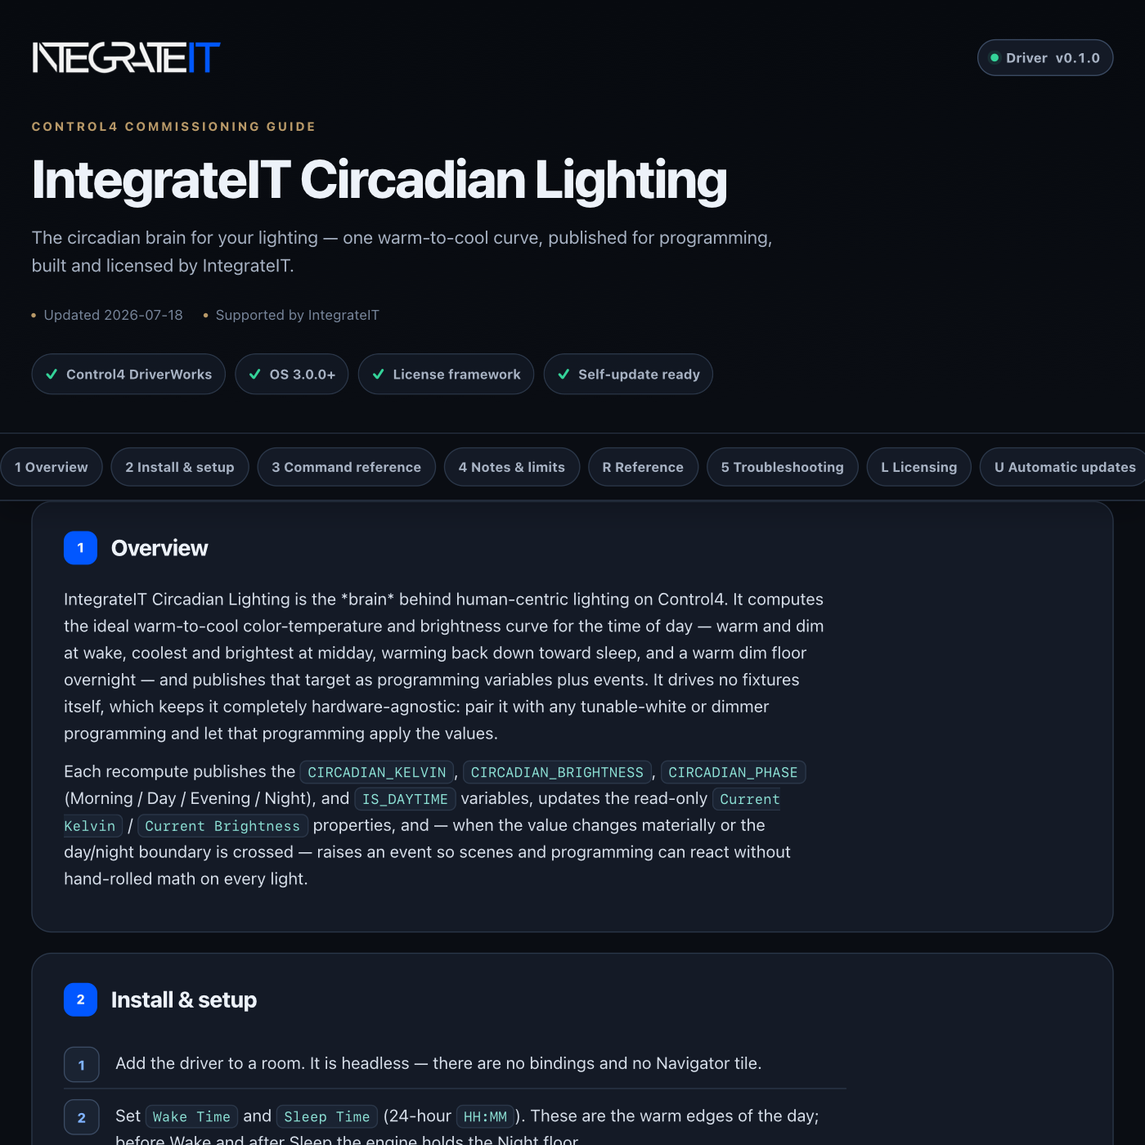
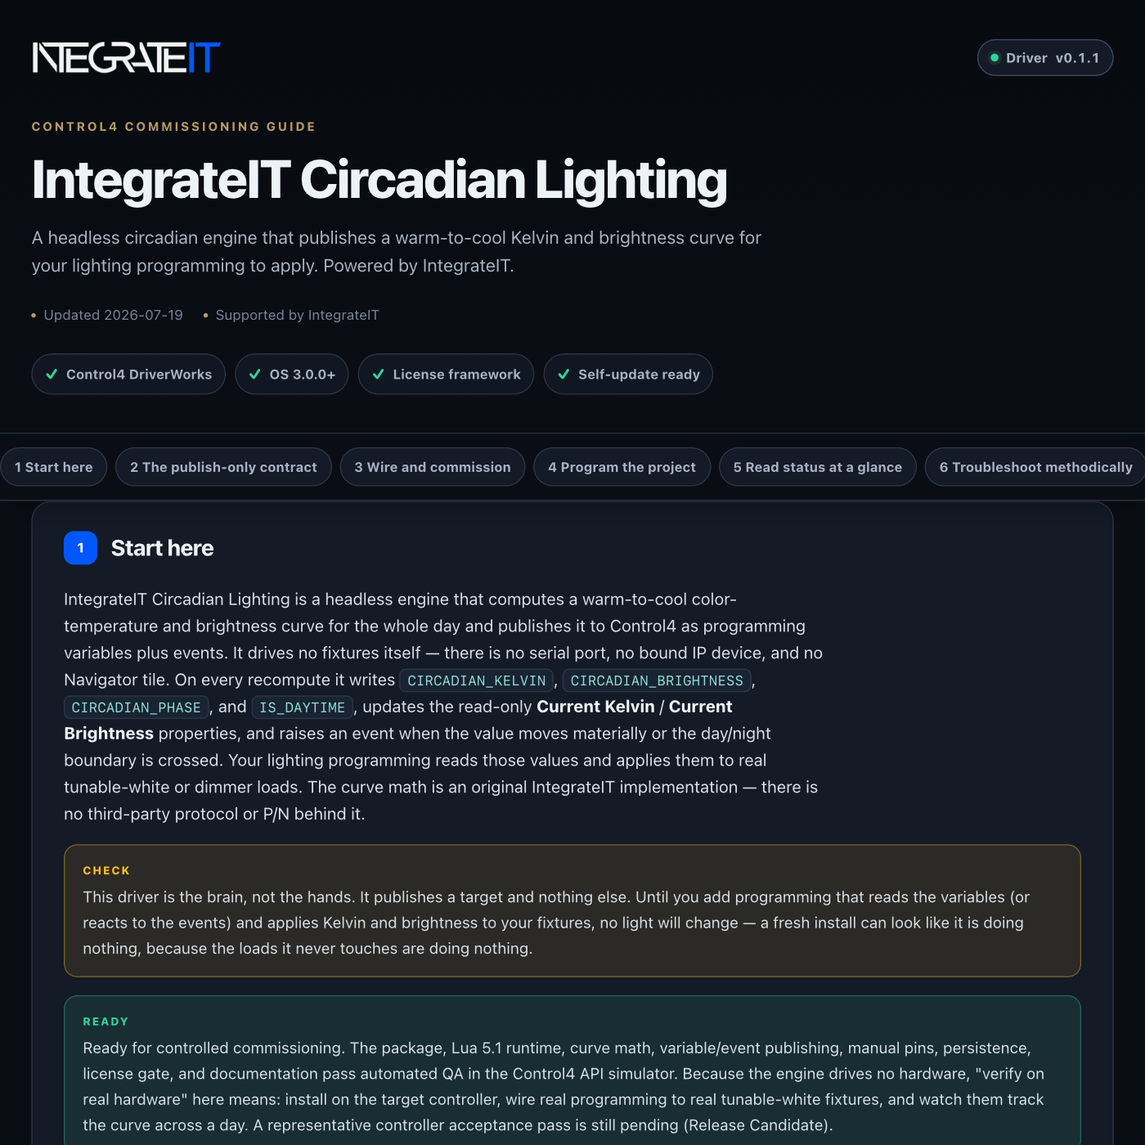
control4: publish driver channel (integrateit_circadian_lighting 0.1.2)

diff --git a/control4/integrateit_circadian_lighting/documentation.html b/control4/integrateit_circadian_lighting/documentation.html
@@ -179,13 +179,13 @@ td code{white-space:normal}
     <div class="wrap">
       <div class="brandbar">
[1 lines of base64/hex data omitted]
-        <span class="version"><span class="word">Driver</span> v0.1.1</span>
+        <span class="version"><span class="word">Driver</span> v0.1.2</span>
       </div>
       <p class="eyebrow">Control4 commissioning guide</p>
       <h1>IntegrateIT Circadian Lighting</h1>
-      <p class="sub">The circadian brain for your lighting — one warm-to-cool curve, published for programming, built and licensed by IntegrateIT.</p>
+      <p class="sub">A headless circadian engine that publishes a warm-to-cool Kelvin and brightness curve for your lighting programming to apply. Powered by IntegrateIT.</p>
       <div class="meta">
-        <span>Updated 2026-07-19</span>
+        <span>Updated 2026-07-26</span>
         <span>Supported by IntegrateIT</span>
       </div>
       <div class="readiness" aria-label="Driver capabilities">
@@ -198,52 +198,120 @@ td code{white-space:normal}
   </header>
 
   <div class="toc-wrap">
-    <nav class="toc wrap" aria-label="Documentation sections"><a href="#overview">1 Overview</a><a href="#install">2 Install &amp; setup</a><a href="#commands">3 Command reference</a><a href="#notes">4 Notes &amp; limits</a><a href="#reference">R Reference</a><a href="#troubleshooting">5 Troubleshooting</a><a href="#licensing">L Licensing</a><a href="#updates">U Automatic updates</a><a href="#changelog">V Version history</a></nav>
+    <nav class="toc wrap" aria-label="Documentation sections"><a href="#overview">1 Start here</a><a href="#contract">2 The publish-only contract</a><a href="#setup">3 Wire and commission</a><a href="#programming">4 Program the project</a><a href="#status">5 Read status at a glance</a><a href="#troubleshooting">6 Troubleshoot methodically</a><a href="#trust">7 Ownership, privacy, and licensing</a><a href="#reference">R Reference</a><a href="#licensing">L Licensing</a><a href="#updates">U Automatic updates</a><a href="#changelog">V Version history</a></nav>
   </div>
 
   <main class="wrap">
     <section class="card" id="overview" data-card="overview">
-  <h2><span class="n">1</span> Overview</h2>
-  <p>IntegrateIT Circadian Lighting is the *brain* behind human-centric lighting on Control4. It computes the ideal warm-to-cool color-temperature and brightness curve for the time of day — warm and dim at wake, coolest and brightest at midday, warming back down toward sleep, and a warm dim floor overnight — and publishes that target as programming variables plus events. It drives no fixtures itself, which keeps it completely hardware-agnostic: pair it with any tunable-white or dimmer programming and let that programming apply the values.</p>
-  <p>Each recompute publishes the <code>CIRCADIAN_KELVIN</code>, <code>CIRCADIAN_BRIGHTNESS</code>, <code>CIRCADIAN_PHASE</code> (Morning / Day / Evening / Night), and <code>IS_DAYTIME</code> variables, updates the read-only <code>Current Kelvin</code> / <code>Current Brightness</code> properties, and — when the value changes materially or the day/night boundary is crossed — raises an event so scenes and programming can react without hand-rolled math on every light.</p>
+  <h2><span class="n">1</span> Start here</h2>
+  <p>IntegrateIT Circadian Lighting is a headless engine that computes a warm-to-cool color-temperature and brightness curve for the whole day and publishes it to Control4 as programming variables plus events. It drives no fixtures itself — there is no serial port, no bound IP device, and no Navigator tile. On every recompute it writes <code>CIRCADIAN_KELVIN</code>, <code>CIRCADIAN_BRIGHTNESS</code>, <code>CIRCADIAN_PHASE</code>, and <code>IS_DAYTIME</code>, updates the read-only <b>Current Kelvin</b> / <b>Current Brightness</b> properties, and raises an event when the value moves materially or the day/night boundary is crossed. Your lighting programming reads those values and applies them to real tunable-white or dimmer loads. The curve math is an original IntegrateIT implementation — there is no third-party protocol or P/N behind it.</p>
+  <div class="note warn">This driver is the brain, not the hands. It publishes a target and nothing else. Until you add programming that reads the variables (or reacts to the events) and applies Kelvin and brightness to your fixtures, no light will change — a fresh install can look like it is doing nothing, because the loads it never touches are doing nothing.</div>
+  <div class="note good">Ready for controlled commissioning. The package, Lua 5.1 runtime, curve math, variable/event publishing, manual pins, persistence, license gate, and documentation pass automated QA in the Control4 API simulator. Because the engine drives no hardware, "verify on real hardware" here means: install on the target controller, wire real programming to real tunable-white fixtures, and watch them track the curve across a day. A representative controller acceptance pass is still pending (Release Candidate).</div>
+  <p><b>What you get</b></p>
+  <ul>
+    <li>A warm-to-cool curve computed from your <b>Wake Time</b> and <b>Sleep Time</b> — warm and dim at the edges, coolest and brightest at solar noon, a flat warm floor overnight</li>
+    <li>Four published variables — <code>CIRCADIAN_KELVIN</code>, <code>CIRCADIAN_BRIGHTNESS</code>, <code>CIRCADIAN_PHASE</code> (Morning / Day / Evening / Night), and <code>IS_DAYTIME</code> — for programming to read</li>
+    <li><b>Circadian Updated</b>, <b>Entered Day</b>, <b>Entered Night</b>, and <b>Manual Mode Set</b> events for event-driven scenes</li>
+    <li><b>Set Mode Day</b> / <b>Set Mode Night</b> manual pins with <b>Resume Auto</b>, so a scene or keypad can freeze the curve and later release it</li>
+    <li>Configurable Kelvin anchors (1800–6500 K), brightness floor/peak, and a 1–60 minute recompute interval</li>
+    <li>Fully hardware-agnostic — pair it with any dimmer or tunable-white programming</li>
+    <li>MAC-locked IntegrateIT licensing with Lenient or Strict enforcement</li>
+  </ul>
 </section>
 
-<section class="card" id="install" data-card="install">
-  <h2><span class="n">2</span> Install &amp; setup</h2>
+<section class="card" id="contract" data-card="contract">
+  <h2><span class="n">2</span> The publish-only contract</h2>
+  <p>The engine publishes a *computed target*, never a measurement. It reads nothing back from any light. If a fixture is off, ignores the value, or was overridden at a keypad, the engine never learns of it — <code>CIRCADIAN_KELVIN</code> and <code>CIRCADIAN_BRIGHTNESS</code> describe the intended curve, not the actual state of the room. Anything presenting these as confirmed fixture state would be faking it.</p>
+  <p>Two more honest limits define the curve:</p>
+  <ul>
+    <li><b>The clock is anchored once, at load.</b> <code>os.date</code> is read a single time at init to learn the minute-of-day; from there the engine advances time by accumulating the recompute tick, never by re-polling the wall clock. That makes the curve immune to a frozen or jumping clock, but it also means a <b>DST transition shifts the curve by a full hour</b>, and a very long uptime can drift it gradually as tick timing accumulates error — until the driver is reloaded. Reload the driver (or reboot the controller) after a DST change to re-anchor.</li>
+    <li><b>The curve is an approximation.</b> It is a piecewise-linear interpolation between three anchors — Wake (warm), solar-noon (the midpoint of Wake and Sleep, coolest and brightest), and Sleep (warm). It models the shape of a daylight day; it is not an astronomical sun-position model, and solar noon is the midpoint of your configured window, not the real solar transit.</li>
+  </ul>
+  <p>A manual pin overrides the curve entirely (see <b>Program the project</b>). While a pin is active, real Entered Day / Entered Night crossings are suppressed, and they are <b>not</b> replayed on Resume Auto — do not rely on strict Day/Night event pairing across a pin.</p>
+</section>
+
+<section class="card" id="setup" data-card="setup">
+  <h2><span class="n">3</span> Wire and commission</h2>
   <ol class="steps">
-    <li>Add the driver to a room. It is headless — there are no bindings and no Navigator tile.</li>
-    <li>Set <code>Wake Time</code> and <code>Sleep Time</code> (24-hour <code>HH:MM</code>). These are the warm edges of the day; before Wake and after Sleep the engine holds the Night floor.</li>
-    <li>Tune the Kelvin anchors: <code>Day Kelvin</code> (coolest, at midday), <code>Morning/Evening Kelvin</code> (the warm edges), and <code>Night Kelvin</code> (warmest, overnight). Set <code>Max Brightness (%)</code> and <code>Min Brightness (%)</code> for the bright midday peak and the dim night floor.</li>
-    <li>Set <code>Update Interval (min)</code> — how often the curve recomputes and republishes (default 15).</li>
-    <li>In Programming, react to <b>Circadian Updated</b> and read <code>CIRCADIAN_KELVIN</code> / <code>CIRCADIAN_BRIGHTNESS</code>, applying them to your tunable-white or dimmer loads. Optionally react to <b>Entered Day</b> / <b>Entered Night</b> for scene changes at the boundaries.</li>
+    <li>Add <b>IntegrateIT Circadian Lighting</b> to a room. It is headless — there are no bindings to make and no Navigator tile appears.</li>
+    <li>Set <b>Wake Time</b> and <b>Sleep Time</b> as 24-hour <code>HH:MM</code> (defaults <code>06:30</code> / <code>22:30</code>). These are the warm edges of the day; before Wake and after Sleep the engine holds the Night floor. Wake must be earlier in the day than Sleep — an overnight window collapses to all-Night. A garbage time silently falls back to its default.</li>
+    <li>Set the Kelvin anchors in order: <b>Night Kelvin</b> (warmest, default 2000) ≤ <b>Morning/Evening Kelvin</b> (warm edges, default 2700) ≤ <b>Day Kelvin</b> (coolest, at noon, default 5000). Set <b>Max Brightness (%)</b> (peak, default 100) and <b>Min Brightness (%)</b> (floor, default 10).</li>
+    <li>Set <b>Update Interval (min)</b> — how often the curve recomputes and republishes (default 15, range 1–60).</li>
+    <li>In Programming, react to <b>Circadian Updated</b> and apply <code>CIRCADIAN_KELVIN</code> / <code>CIRCADIAN_BRIGHTNESS</code> to your tunable-white or dimmer loads (recipes below). Optionally react to <b>Entered Day</b> / <b>Entered Night</b> for scene changes at the boundaries.</li>
+    <li>Prove it: run <b>Print Curve</b> and confirm the printed time-of-day, phase, and Kelvin span match now. Then press <b>Recompute Now</b> (or <b>Set Mode Day</b>) and watch a real load track <code>CIRCADIAN_KELVIN</code> / <code>CIRCADIAN_BRIGHTNESS</code>.</li>
   </ol>
 </section>
 
-<section class="card" id="commands" data-card="commands">
-  <h2><span class="n">3</span> Command reference</h2>
+<section class="card" id="programming" data-card="programming">
+  <h2><span class="n">4</span> Program the project</h2>
   <table>
-    <tr><th>Action</th><th>What it does</th></tr>
-    <tr><td>Recompute Now</td><td>Immediately recompute the curve at the current time and republish.</td></tr>
-    <tr><td>Set Mode Day</td><td>Pin the cool, bright midday values and hold them until Resume Auto.</td></tr>
-    <tr><td>Set Mode Night</td><td>Pin the warm, dim night values and hold them until Resume Auto.</td></tr>
-    <tr><td>Resume Auto</td><td>Drop any manual pin and return to the live time-of-day curve.</td></tr>
-    <tr><td>Print Curve</td><td>Print the current time, curve values, and Kelvin span to the Lua output window.</td></tr>
+    <tr><th>Action</th><th>Effect</th></tr>
+    <tr><td><b>Recompute Now</b></td><td>Recompute the curve at the current time and republish. While pinned, it silently refreshes the pinned values. License-gated.</td></tr>
+    <tr><td><b>Set Mode Day</b></td><td>Pin the cool, bright midday values and hold until Resume Auto. License-gated.</td></tr>
+    <tr><td><b>Set Mode Night</b></td><td>Pin the warm, dim night values and hold until Resume Auto. License-gated.</td></tr>
+    <tr><td><b>Resume Auto</b></td><td>Drop the pin and return to the live time-of-day curve. License-gated.</td></tr>
+    <tr><td><b>Print Curve</b></td><td>Print the time, curve values, mode, and Kelvin span to the Lua output. Always available, even Strict-unlicensed.</td></tr>
   </table>
-  <p><b>Events:</b> *Circadian Updated*, *Entered Day*, *Entered Night*, *Manual Mode Set*. <b>Variables:</b> <code>CIRCADIAN_KELVIN</code>, <code>CIRCADIAN_BRIGHTNESS</code>, <code>CIRCADIAN_PHASE</code>, <code>IS_DAYTIME</code>.</p>
+  <table>
+    <tr><th>Event</th><th>Fires when</th></tr>
+    <tr><td><b>Circadian Updated</b></td><td>A recompute changed the published Kelvin by ≥ 20 K, brightness by ≥ 1 %, or the phase. Never on boot.</td></tr>
+    <tr><td><b>Entered Day</b></td><td>Time crossed from Night into the daytime span (Wake).</td></tr>
+    <tr><td><b>Entered Night</b></td><td>Time crossed from daytime into Night (Sleep).</td></tr>
+    <tr><td><b>Manual Mode Set</b></td><td>A Set Mode Day / Night pin was applied. A duplicate same-mode press does not re-fire it.</td></tr>
+  </table>
+  <table>
+    <tr><th>Variable</th><th>Type</th><th>Meaning</th></tr>
+    <tr><td><code>CIRCADIAN_KELVIN</code></td><td>NUMBER</td><td>Target color temperature for now, 1800–6500 K</td></tr>
+    <tr><td><code>CIRCADIAN_BRIGHTNESS</code></td><td>NUMBER</td><td>Target level for now, 1–100 %</td></tr>
+    <tr><td><code>CIRCADIAN_PHASE</code></td><td>STRING</td><td>Morning, Day, Evening, or Night (Unknown before the first publish)</td></tr>
+    <tr><td><code>IS_DAYTIME</code></td><td>BOOL</td><td>1 during Morning/Day/Evening, 0 during Night</td></tr>
+  </table>
+  <p>Three recipes that cover most projects:</p>
+  <ul>
+    <li><b>Apply the curve.</b> When <b>Circadian Updated</b> → set your tunable-white group's color temperature to <code>CIRCADIAN_KELVIN</code> and its level to <code>CIRCADIAN_BRIGHTNESS</code>. This one link is what makes the lights track the day.</li>
+    <li><b>Boundary scenes.</b> When <b>Entered Night</b> → run a wind-down scene (close shades, warm the accent lights); when <b>Entered Day</b> → open the house. Or gate other programming on <code>IS_DAYTIME</code> / <code>CIRCADIAN_PHASE</code> — for example, brighten on motion only while <code>IS_DAYTIME</code> is 1.</li>
+    <li><b>Manual override.</b> A "Focus" keypad button → <b>Set Mode Day</b>; a "Movie" scene → <b>Set Mode Night</b>; the room's Auto button → <b>Resume Auto</b>. A pin survives a controller restart and holds until Resume Auto, so the override is durable.</li>
+  </ul>
+  <p>The mutating actions are license-gated: under Strict enforcement an unlicensed controller ignores <b>Recompute Now</b>, <b>Set Mode Day/Night</b>, and <b>Resume Auto</b>. The automatic curve keeps computing and publishing regardless — publishing a computed target is not a gated action — and <b>Print Curve</b> always works. Lenient mode allows all actions during commissioning while <code>License Status</code> carries the nag.</p>
 </section>
 
-<section class="card" id="notes" data-card="notes">
-  <h2><span class="n">4</span> Notes &amp; limits</h2>
-  <ul>
-    <li>The engine publishes a *target* curve. Tunable-white or dimmer programming must apply the values to real fixtures — the driver controls no loads directly.</li>
-    <li>Set the anchors in order: <code>Min Brightness (%)</code> ≤ <code>Max Brightness (%)</code>, and <code>Night Kelvin</code> ≤ <code>Morning/Evening Kelvin</code> ≤ <code>Day Kelvin</code>. Brightness is auto-corrected if entered inverted, but inverted Kelvin anchors will flatten or invert the warm-to-cool ramp — the engine does not second-guess your Kelvin values.</li>
-    <li>Time of day is anchored from the controller clock <b>once at load</b> and then advanced only by the recompute tick — it is never re-synced against the wall clock. That keeps the curve immune to a frozen or jumping clock, but it also means a <b>DST transition or a very long uptime can drift the curve by up to ~1 hour</b> until the driver is reloaded. Reload the driver (or reboot the controller) after a DST change to re-anchor.</li>
-    <li>A manual Day / Night pin overrides the curve until you Resume Auto, and it survives a controller restart. <b>While a pin is active, real Entered Day / Entered Night crossings are suppressed and are not replayed on Resume Auto</b> — don't rely on strict Day/Night event pairing across a pin.</li>
-    <li>The curve is a piecewise-linear interpolation between Wake, solar-noon, and Sleep anchors. It approximates daylight; it is not an astronomical sun-position model.</li>
-  </ul>
+<section class="card" id="status" data-card="status">
+  <h2><span class="n">5</span> Read status at a glance</h2>
+  <table>
+    <tr><th>Surface</th><th>Healthy result</th><th>What it tells you</th></tr>
+    <tr><td><b>Current Kelvin</b></td><td>e.g. <code>5000 K</code></td><td>The Kelvin most recently published; matches the curve for the time, or the active pin</td></tr>
+    <tr><td><b>Current Brightness</b></td><td>e.g. <code>100%</code></td><td>The percent most recently published</td></tr>
+    <tr><td><code>CIRCADIAN_PHASE</code></td><td>Morning / Day / Evening / Night</td><td>The current phase label; <code>Unknown</code> only before the first publish</td></tr>
+    <tr><td><code>IS_DAYTIME</code></td><td><code>1</code> daytime, <code>0</code> night</td><td>Safe to drive daytime-only automation</td></tr>
+    <tr><td><b>License Status</b></td><td>Activated, or Lenient during commissioning</td><td>Enter a key before selecting Strict enforcement</td></tr>
+  </table>
+  <p>The <b>Status</b> line narrates the engine: <code>Auto</code>, <code>Manual mode: Day</code> / <code>Night</code>, <code>Resumed Auto</code>, <code>Entered Day</code> / <code>Entered Night</code>, or <code>Curve printed</code>. <b>Print Curve</b> writes the full snapshot — time-of-day, wake/sleep, current curve, Kelvin span, and mode — to the Lua output window; set <b>Debug Mode</b> to <code>Print</code> for continuous runtime logging. Neither ever prints the license key.</p>
+</section>
+
+<section class="card" id="troubleshooting" data-card="troubleshooting">
+  <h2><span class="n">6</span> Troubleshoot methodically</h2>
+  <table>
+    <tr><th>Symptom</th><th>Likely cause</th><th>Fix</th></tr>
+    <tr><td>No light ever changes</td><td>No programming reads the variables / reacts to the events</td><td>Add programming that applies <code>CIRCADIAN_KELVIN</code> / <code>CIRCADIAN_BRIGHTNESS</code> to your loads — the engine drives nothing itself</td></tr>
+    <tr><td>Set Mode / Recompute do nothing</td><td>Strict enforcement + unlicensed</td><td>Check <b>License Status</b>; Lenient keeps the actions enabled during commissioning (the auto curve and Print Curve work either way)</td></tr>
+    <tr><td>Curve stuck warm/dim, ignores the time</td><td>A manual Day/Night pin is holding</td><td>Run <b>Resume Auto</b>; confirm <b>Wake Time</b> / <b>Sleep Time</b></td></tr>
+    <tr><td>Curve is ~1 hour off (after DST or long uptime)</td><td>The clock is anchored once at load, not re-synced to the wall clock</td><td>Reload the driver or reboot the controller to re-anchor</td></tr>
+    <tr><td>Curve looks inverted (dim/warm at noon)</td><td>Kelvin anchors entered out of order</td><td>Set <b>Night</b> ≤ <b>Morning/Evening</b> ≤ <b>Day</b> Kelvin — brightness auto-corrects an inverted Min/Max, Kelvin does not</td></tr>
+    <tr><td>Always Night, never daytime</td><td>Wake Time is not earlier than Sleep Time</td><td>Set Wake before Sleep on the 24-hour clock</td></tr>
+    <tr><td>Values jump at the boundaries</td><td>Interval too coarse for the ramp</td><td>Lower <b>Update Interval (min)</b> for a smoother ramp</td></tr>
+    <tr><td><b>Circadian Updated</b> rarely fires</td><td>Sub-20 K / sub-1 % in-phase steps are below the material threshold</td><td>Expected — force a publish with <b>Recompute Now</b>, or inspect with <b>Print Curve</b></td></tr>
+  </table>
+  <p>If the curve still misbehaves, capture the <b>Print Curve</b> output and email support@integrateit.tech · (913) 804-7575.</p>
+</section>
+
+<section class="card" id="trust" data-card="trust">
+  <h2><span class="n">7</span> Ownership, privacy, and licensing</h2>
+  <p>This package is an original IntegrateIT implementation. The curve is computed entirely on the controller; the engine bundles no other vendor's runtime, brand assets, trial system, or license. Driver engineering, the curve math, Control4 integration, documentation, QA, licensing, updates, and support are provided by IntegrateIT.</p>
+  <p>The circadian engine sends no room, customer, or project data anywhere — it contacts no lighting device, no third-party cloud, and no vendor, and it reads nothing back off any load. The only credential is the IntegrateIT license key, which lives in the <b>License Key</b> property and is never printed or logged. The shared IntegrateIT license and update services are the sole outbound path: activation POSTs the controller identity (MAC), driver slug, version, and configured license key to IntegrateIT, and the updater fetches the published manifest for the selected channel — nothing else, and no lighting or occupancy data, ever leaves with them. The exact fields are documented in the reference below.</p>
+  <p>Lenient mode allows commissioning without an activated key and keeps <code>License Status</code> visible. Strict mode blocks the manual actions until the Ops Portal has minted and validated a key for that controller; the automatic curve keeps computing either way. Installing this package does not itself mint or activate a controller license.</p>
 <section class="card" id="reference" data-card="reference">
   <h2><span class="n">R</span> Reference</h2>
-  <p>Generated from the driver manifest at build time — always matches this build (v0.1.1).</p>
+  <p>Generated from the driver manifest at build time — always matches this build (v0.1.2).</p>
   <h3>Properties</h3>
   <table>
     <tr><th>Property</th><th>Type</th><th>Default</th><th>Description</th></tr>
@@ -297,20 +365,6 @@ td code{white-space:normal}
   </table>
 </section>
 </section>
-
-<section class="card" id="troubleshooting" data-card="troubleshooting">
-  <h2><span class="n">5</span> Troubleshooting</h2>
-  <table>
-    <tr><th>Symptom</th><th>Likely cause</th><th>Fix</th></tr>
-    <tr><td>Lights never change</td><td>No programming is reading the variables / reacting to the events</td><td>Add programming that applies <code>CIRCADIAN_KELVIN</code> / <code>CIRCADIAN_BRIGHTNESS</code> to your loads.</td></tr>
-    <tr><td>Curve seems stuck warm/dim</td><td>A manual Day/Night pin is holding, or Wake/Sleep are misconfigured</td><td>Run <b>Resume Auto</b>; verify <code>Wake Time</code> / <code>Sleep Time</code>.</td></tr>
-    <tr><td>Values jump at boundaries</td><td>Interval too long for the ramp</td><td>Lower <code>Update Interval (min)</code> for a smoother ramp.</td></tr>
-    <tr><td>Curve is ~1 hour off (after a DST change or long uptime)</td><td>Time of day is anchored once at load and not re-synced to the wall clock</td><td>Reload the driver or reboot the controller to re-anchor the clock.</td></tr>
-    <tr><td>Curve looks inverted (dim/warm at noon)</td><td><code>Min</code>/<code>Max</code> Brightness or the Kelvin anchors are entered out of order</td><td>Set <code>Min Brightness ≤ Max Brightness</code> and <code>Night ≤ Morning/Evening ≤ Day</code> Kelvin.</td></tr>
-    <tr><td>Nothing happens</td><td>Strict enforcement + unlicensed</td><td>Check <code>License Status</code>; Lenient mode keeps control enabled without a key.</td></tr>
-  </table>
-  <div class="note">Turn on <code>Debug Mode → Print</code> and run <b>Print Curve</b> to inspect the computed time, phase, and Kelvin span in the Lua output window.</div>
-</section>
 <section class="card" id="licensing" data-card="licensing">
   <h2><span class="n">L</span> Licensing</h2>
   <p>This driver is licensed <b>per controller</b>. Each license key locks to one controller's
@@ -358,7 +412,9 @@ td code{white-space:normal}
     <section class="card" id="changelog" data-card="changelog">
   <h2><span class="n">V</span> Version history</h2>
   <div class="chg">
-    <div class="rel"><b>v0.1.1</b> <span class="pill green">current</span><span class="d">2026-07-19</span>
+    <div class="rel"><b>v0.1.2</b> <span class="pill green">current</span><span class="d">2026-07-26</span>
+      <ul><li>Documentation rebuilt to the IntegrateIT commissioning-guide standard: uniform sections, honest contracts, verified claim-by-claim against the code.</li></ul></div>
+    <div class="rel"><b>v0.1.1</b><span class="d">2026-07-19</span>
       <ul><li>Hardware-test-worthy polish: correctness, edge-case, timer-hygiene and hardware-readiness fixes with a regression test added per fix</li><li>Shared runtime: a transient license-server error no longer de-licenses a paying controller; repeating-timer callbacks are crash-guarded</li></ul></div>
     <div class="rel"><b>v0.1.0</b><span class="d">2026-07-18</span>
       <ul><li>Initial scaffold (template: blank).</li></ul></div>

diff --git a/control4/integrateit_circadian_lighting/CHANGELOG.md b/control4/integrateit_circadian_lighting/CHANGELOG.md
@@ -1,5 +1,8 @@
 # Changelog — IntegrateIT Circadian Lighting
 
+## [0.1.2] - 2026-07-26
+- Documentation rebuilt to the IntegrateIT commissioning-guide standard: uniform sections, honest contracts, verified claim-by-claim against the code.
+
 ## [0.1.1] - 2026-07-19
 - Hardware-test-worthy polish: correctness, edge-case, timer-hygiene and hardware-readiness fixes with a regression test added per fix
 - Shared runtime: a transient license-server error no longer de-licenses a paying controller; repeating-timer callbacks are crash-guarded
